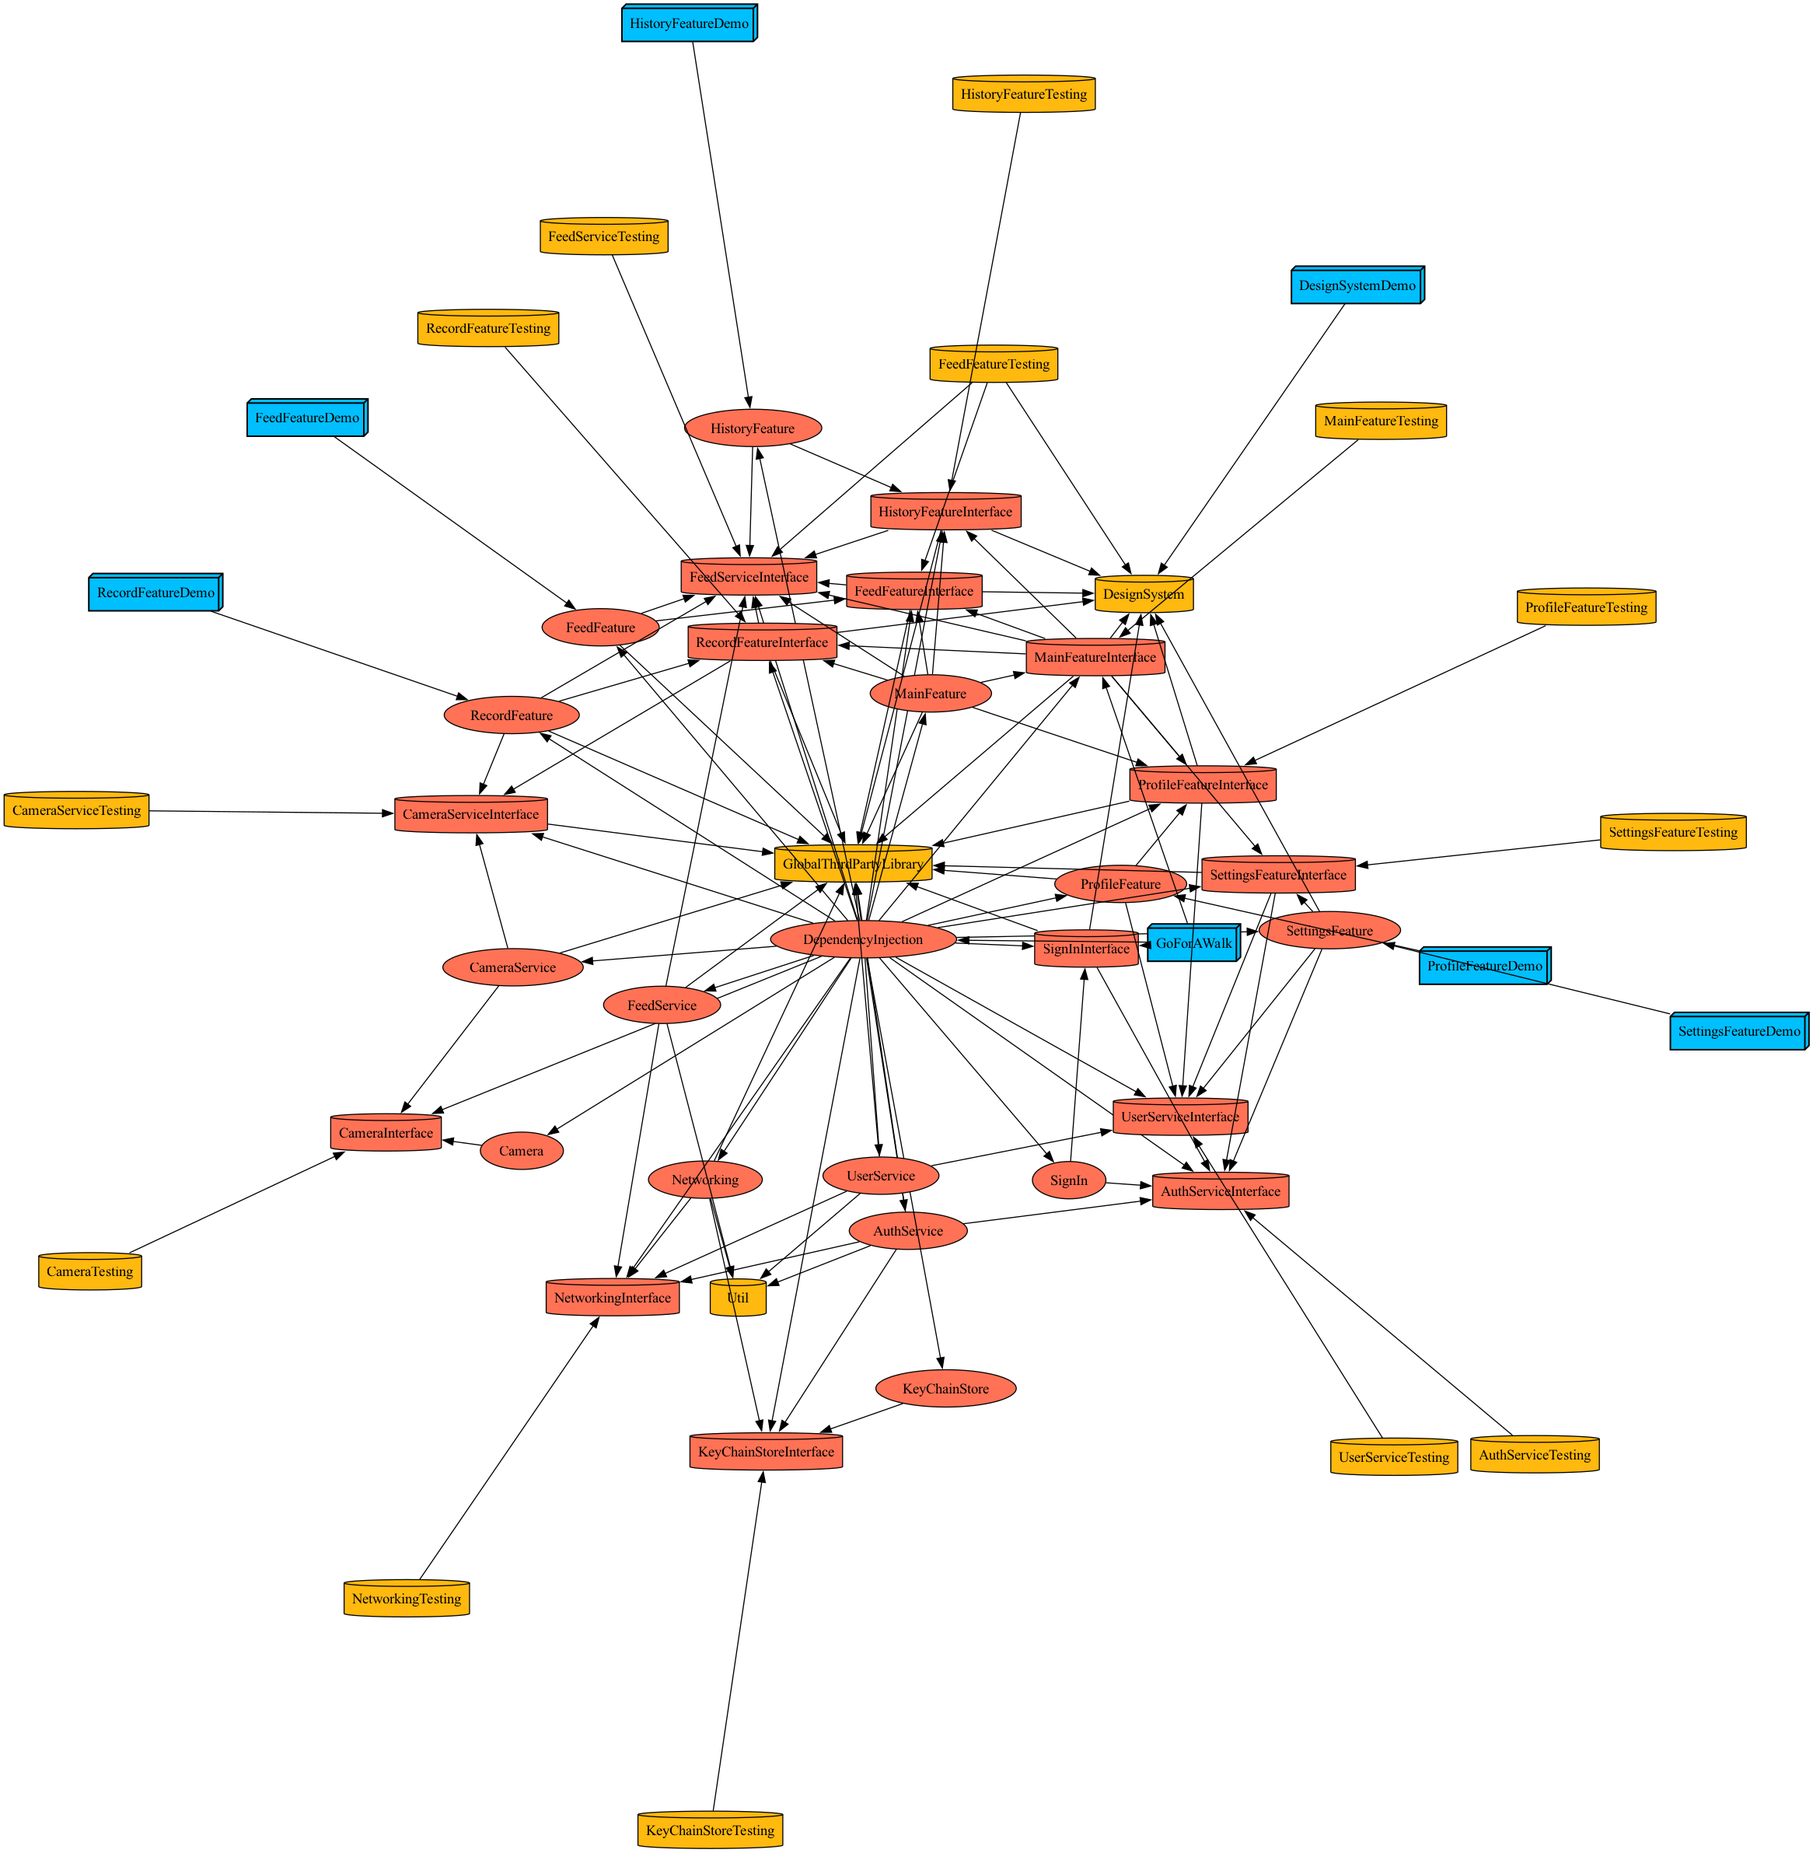
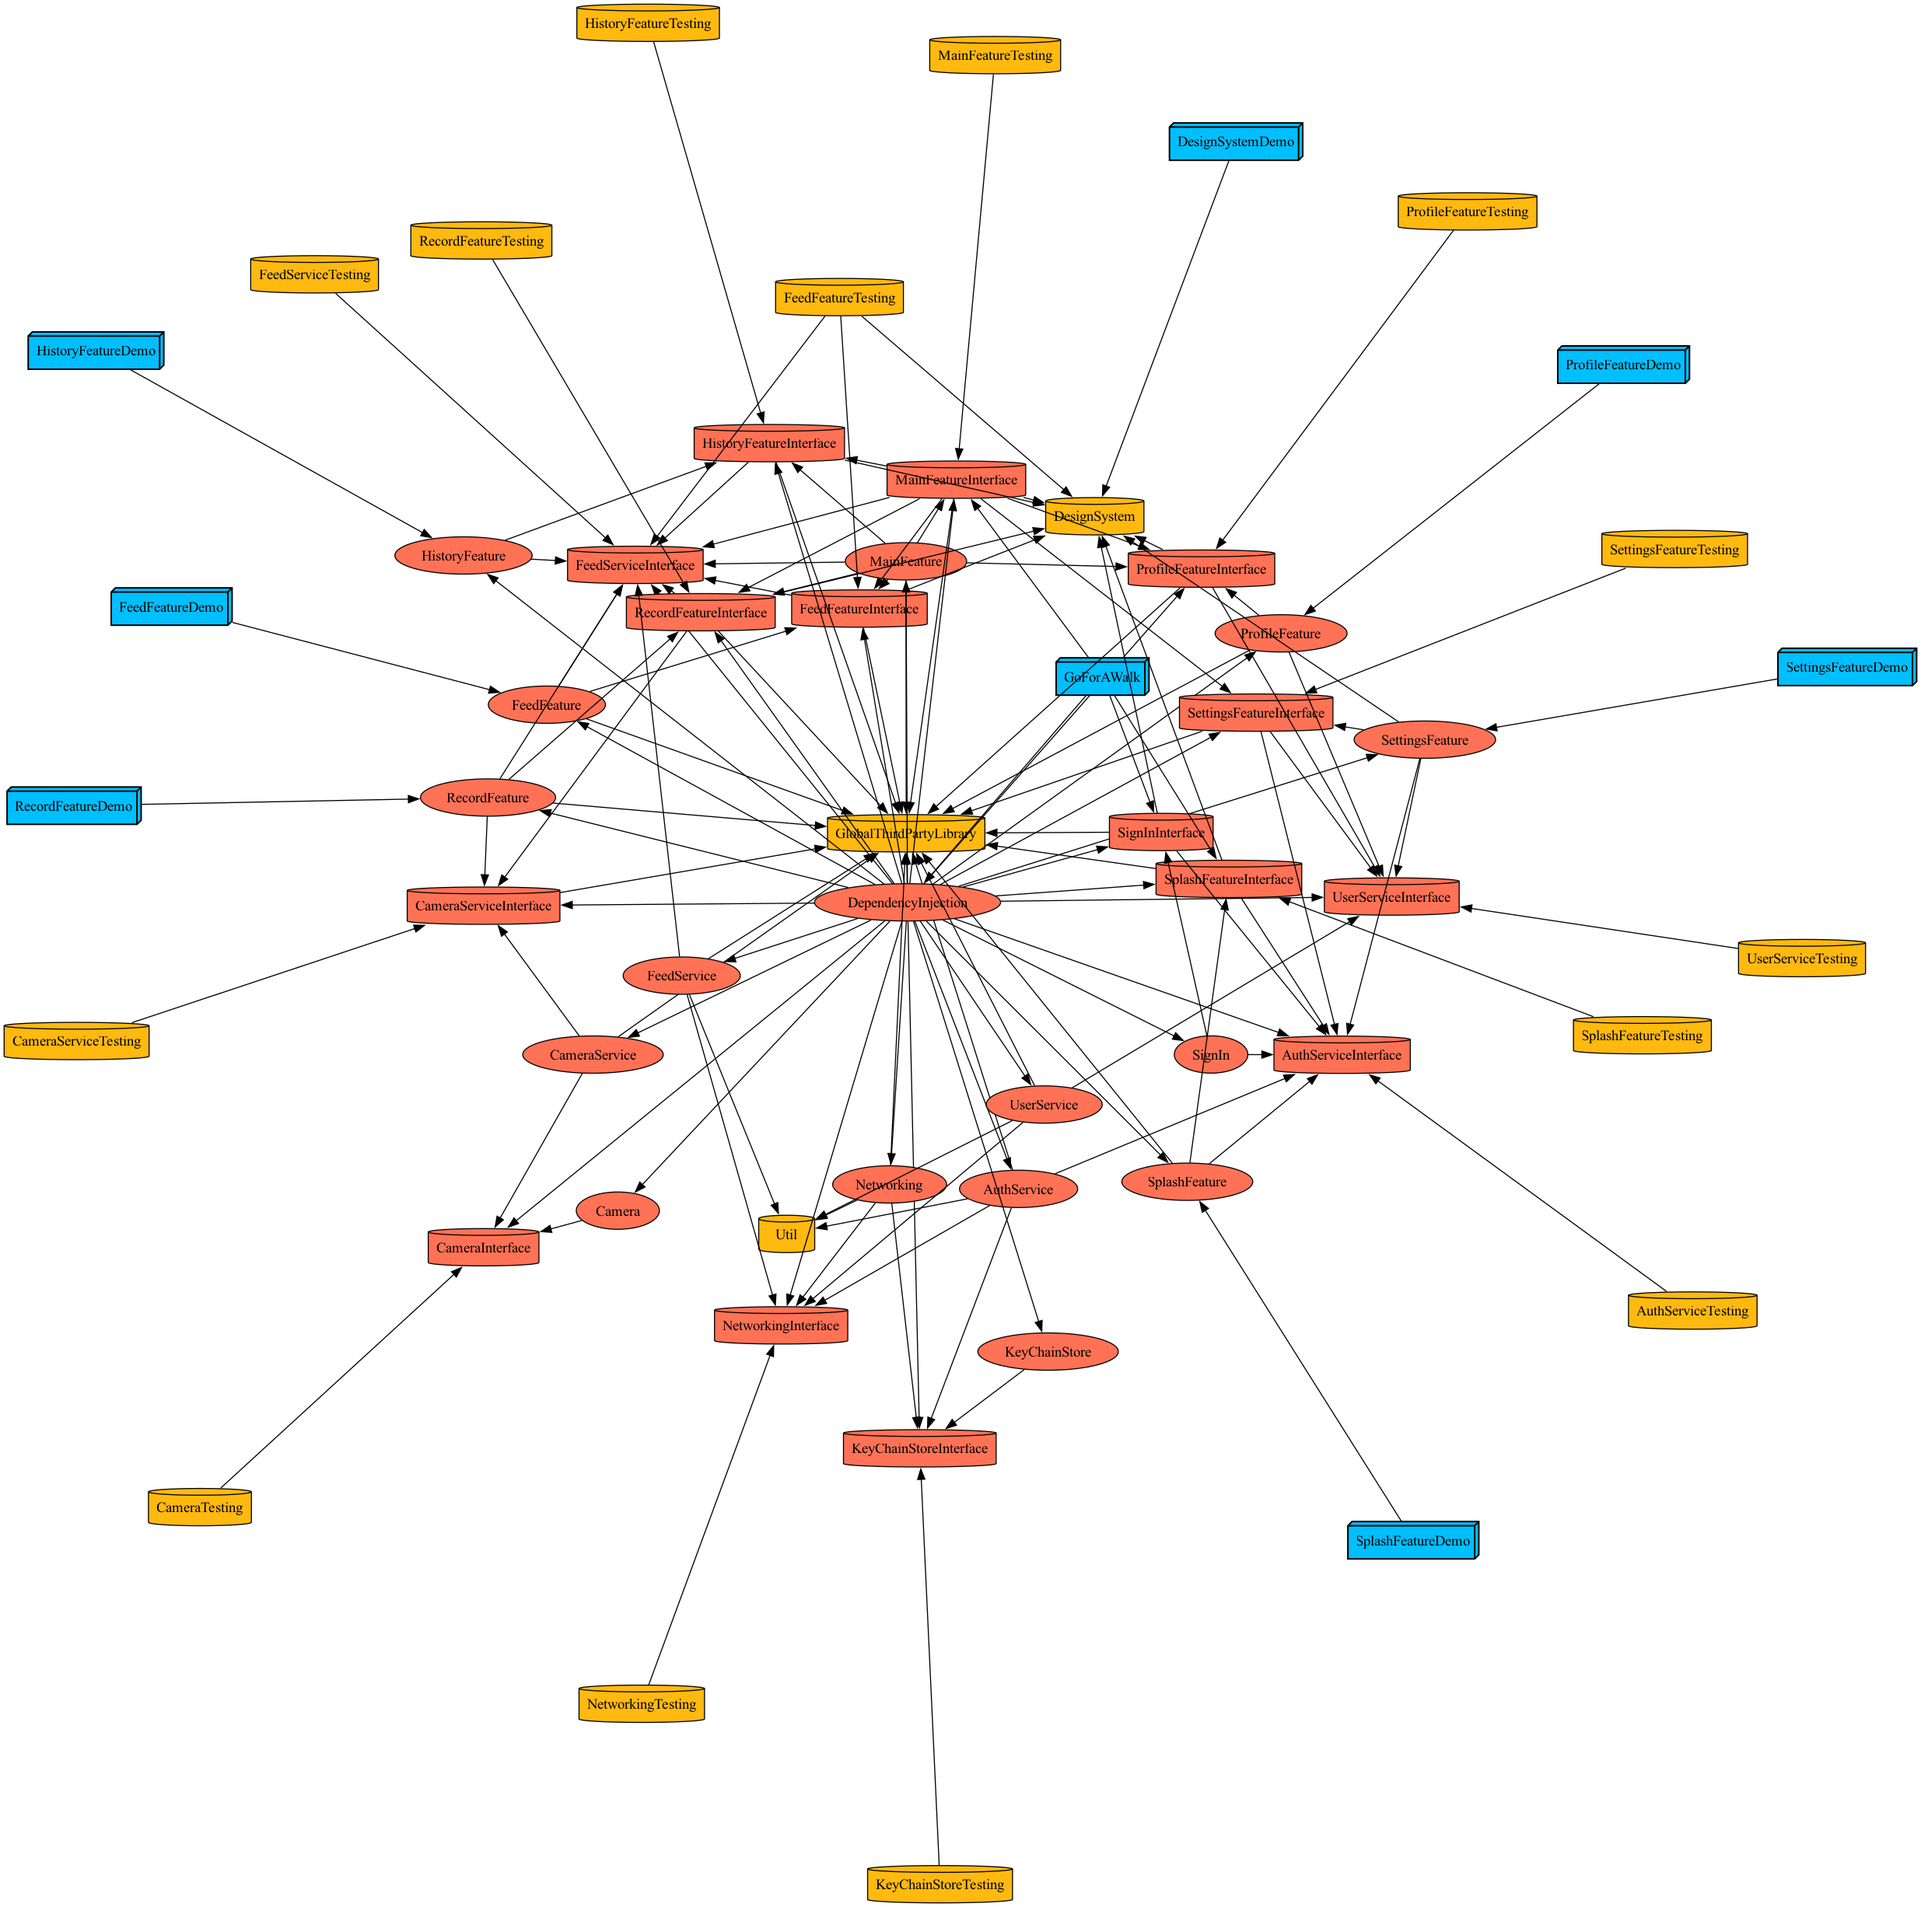
📝 :: GW-44 (iOS) 프로젝트 UML 작성

diff --git a/README.md b/README.md
@@ -1,70 +1,208 @@
- # 👟 걷는
+# 걷는
 
 산책과 운동을 즐기는 사람들을 위한 iOS 앱입니다.
 
-## 🏗 아키텍처
+## 아키텍처
 
 이 프로젝트는 **Tuist**를 활용한 모듈화 아키텍처와 **SwiftUI + TCA(The Composable Architecture)**를 기반으로 개발되었습니다.
 
 ### 모듈 구조
 
 ```
-📦 GoForAWalk
-├── 🔄 Shared
-│   └── Extension
-├── ⚙ Core  
-│   ├── Network
-│   └── KeychainStore
-├── 🎯 Domain
-│   ├── AuthService
-│   ├── FeedService
-│   └── UserService
-└── 🎨 Feature
-    ├── SignInFeature
-    ├── FeedFeature
-    └── ProfileFeature
+GoForAWalk
+├── App
+│   └── GoForAWalk (메인 앱)
+├── Feature
+│   ├── SplashFeature (스플래시)
+│   ├── SignIn (로그인)
+│   ├── MainFeature (메인 탭)
+│   ├── FeedFeature (피드)
+│   ├── HistoryFeature (히스토리)
+│   ├── ProfileFeature (프로필)
+│   ├── RecordFeature (기록)
+│   └── SettingsFeature (설정)
+├── Domain
+│   ├── AuthService (인증)
+│   ├── CameraService (카메라)
+│   ├── FeedService (피드)
+│   └── UserService (사용자)
+├── Core
+│   ├── Networking (네트워크)
+│   ├── KeyChainStore (키체인)
+│   └── Camera (카메라)
+├── UserInterface
+│   └── DesignSystem (디자인 시스템)
+└── Shared
+    ├── DependencyInjection (의존성 주입)
+    ├── GlobalThirdPartyLibrary (외부 라이브러리)
+    └── Util (유틸리티)
+```
+
+### 모듈 의존성 다이어그램
+
+```mermaid
+graph TB
+    subgraph App
+        A[GoForAWalk]
+    end
+
+    subgraph Feature
+        F1[SplashFeature]
+        F2[SignIn]
+        F3[MainFeature]
+        F4[FeedFeature]
+        F5[HistoryFeature]
+        F6[ProfileFeature]
+        F7[RecordFeature]
+        F8[SettingsFeature]
+    end
+
+    subgraph Domain
+        D1[AuthService]
+        D2[CameraService]
+        D3[FeedService]
+        D4[UserService]
+    end
+
+    subgraph Core
+        C1[Networking]
+        C2[KeyChainStore]
+        C3[Camera]
+    end
+
+    subgraph Shared
+        S1[DependencyInjection]
+        S2[GlobalThirdPartyLibrary]
+        S3[Util]
+    end
+
+    subgraph UserInterface
+        U1[DesignSystem]
+    end
+
+    %% App Dependencies
+    A --> S1
+    A --> F1
+    A --> F2
+    A --> F3
+
+    %% Feature Dependencies
+    F1 --> D1
+    F2 --> D1
+    F3 --> F4
+    F3 --> F5
+    F3 --> F6
+    F3 --> F7
+    F3 --> F8
+    F3 --> D3
+    F4 --> D3
+    F6 --> D4
+    F7 --> D2
+    F7 --> D3
+
+    %% Domain Dependencies
+    D1 --> C1
+    D1 --> C2
+    D2 --> C3
+    D3 --> C1
+    D4 --> C1
+
+    %% Core Dependencies
+    C1 --> C2
+
+    %% Shared Dependencies
+    Feature --> U1
+    Feature --> S2
+    Domain --> S2
+    Domain --> S3
+    Core --> S2
+    Core --> S3
+```
+
+### 레이어 의존성 규칙
+
+```mermaid
+graph LR
+    subgraph Layers
+        A[App] --> B[Feature]
+        B --> C[Domain]
+        C --> D[Core]
+        B --> E[UserInterface]
+        C --> F[Shared]
+        D --> F
+    end
+
+    style A fill:#e1f5fe
+    style B fill:#fff3e0
+    style C fill:#f3e5f5
+    style D fill:#e8f5e9
+    style E fill:#fce4ec
+    style F fill:#f5f5f5
 ```
 
 ### 레이어 설명
 
-#### 🔄 Shared
-모든 레이어에서 공용으로 재사용되는 모듈들이 위치합니다.
-- **Extension**: 공통 확장 기능
+| 레이어 | 설명 | 모듈 |
+|--------|------|------|
+| **App** | 앱 진입점, 의존성 조립 | GoForAWalk |
+| **Feature** | 사용자 인터페이스, TCA Reducer | Splash, SignIn, Main, Feed, History, Profile, Record, Settings |
+| **Domain** | 비즈니스 로직, 서비스 | Auth, Camera, Feed, User |
+| **Core** | 순수 기능성 모듈 | Networking, KeyChain, Camera |
+| **UserInterface** | 공통 UI 컴포넌트 | DesignSystem |
+| **Shared** | 공용 유틸리티 | DependencyInjection, GlobalThirdPartyLibrary, Util |
 
-#### ⚙ Core
-앱의 비즈니스 로직을 포함하지 않는 순수 기능성 모듈들이 위치합니다.
-- **Network**: 네트워킹 관련 기능
-- **KeychainStore**: 키체인 저장소 관리
+### TCA Feature 모듈 구조
 
-#### 🎯 Domain
-도메인 로직이 진행되는 레이어로, 비즈니스 서비스들이 위치합니다.
-- **AuthService**: 인증 관련 비즈니스 로직
-- **FeedService**: 피드 관련 비즈니스 로직
-- **UserService**: 사용자 관련 비즈니스 로직
+각 Feature 모듈은 Interface/Sources 분리 패턴을 따릅니다:
 
-#### 🎨 Feature
-사용자의 액션을 처리하고 데이터를 보여주는, 사용자와 직접 맞닿는 레이어입니다.
-- **SignInFeature**: 로그인 화면 및 기능
-- **FeedFeature**: 피드 화면 및 기능
-- **ProfileFeature**: 프로필 화면 및 기능
+```
+Feature/[Name]/
+├── Interface/
+│   ├── [Name].swift          # Reducer 프로토콜/인터페이스
+│   └── [Name]View.swift      # SwiftUI View
+├── Sources/
+│   └── [Name].swift          # Live 구현체
+├── Testing/
+│   └── [Name]+Testing.swift  # 테스트용 Mock
+└── Tests/
+    └── [Name]Tests.swift     # 단위 테스트
+```
 
-## 🛠 기술 스택
+## 기술 스택
 
-- **Language**: Swift
-- **UI Framework**: SwiftUI
-- **Architecture**: TCA (The Composable Architecture)
-- **Modularization**: Tuist
-- **Dependency Management**: Tuist
+| 분류 | 기술 |
+|------|------|
+| **Language** | Swift 6 |
+| **UI Framework** | SwiftUI |
+| **Architecture** | TCA (The Composable Architecture) |
+| **Modularization** | Tuist |
+| **Networking** | Alamofire |
+| **Authentication** | Kakao SDK, Sign in with Apple |
+| **Analytics** | Firebase Analytics |
+| **Crash Reporting** | Firebase Crashlytics |
 
-## 🚀 시작하기
+## 시작하기
 
 ### 요구사항
 
 - **Xcode**: 16.0+
 - **iOS**: 18.0+
-- **Tuist**: 설치 필요
+- **Tuist**: 4.x
 
-## 📋 사용 가능한 명령어
+### 설치 및 실행
+
+```bash
+# 1. Tuist 설치 (mise 사용)
+mise install tuist
+
+# 2. 의존성 설치 및 프로젝트 생성
+make generate
+
+# 3. Xcode에서 열기
+open GoForAWalk.xcworkspace
+```
+
+## 사용 가능한 명령어
 
 ### 기본 명령어
 
@@ -90,25 +228,40 @@
 | `make ci_generate` | CI용 프로젝트 generate (SwiftLint 제외) |
 | `make cd_generate` | CD용 프로젝트 generate (SwiftLint 제외) |
 
-## 📝 개발 가이드라인
+## 개발 가이드라인
 
-### TCA 패턴 사용
+### TCA 패턴
 
-모든 Feature 모듈은 TCA(The Composable Architecture) 패턴을 따릅니다:
+모든 Feature 모듈은 TCA 패턴을 따릅니다:
 
-- **State**: 화면의 상태
-- **Action**: 사용자 액션 및 시스템 이벤트
-- **Reducer**: 상태 변경 로직
-- **Environment**: 외부 의존성
+```swift
+@Reducer
+public struct SomeFeature: Sendable {
+    @ObservableState
+    public struct State: Equatable { ... }
 
-### 모듈 간 의존성
+    public enum Action {
+        case viewAction
+        case delegate(Delegate)
 
-- 상위 레이어는 하위 레이어에만 의존할 수 있습니다
-- 같은 레이어 내 모듈 간 의존성은 최소화합니다
-- Core 레이어는 비즈니스 로직을 포함하지 않습니다
+        public enum Delegate { ... }
+    }
 
----
+    public var body: some ReducerOf<Self> {
+        Reduce { state, action in
+            // 상태 변경 로직
+        }
+    }
+}
+```
 
-## 📞 문의
+### 모듈 간 의존성 규칙
+
+1. **상위 → 하위만 허용**: App → Feature → Domain → Core
+2. **같은 레이어 최소화**: Feature 간 직접 의존 지양
+3. **Interface 분리**: 모듈 간 통신은 Interface를 통해
+4. **Core는 비즈니스 로직 없음**: 순수 기능성 모듈만
+
+## 문의
 
 프로젝트에 대한 질문이나 제안사항이 있으시면 Issues를 통해 연락해주세요.

diff --git a/CLAUDE.md b/CLAUDE.md
@@ -1,0 +1,81 @@
+# GoForAWalk Project Instructions
+
+## TCA Architecture Discussion
+
+This project uses The Composable Architecture (TCA) with Tuist for modular architecture.
+
+When answering questions about architecture, design patterns, or implementation decisions, always reference and follow the panel discussion format defined in:
+
+@.claude/tca_prompt.txt
+
+This prompt simulates a panel discussion between:
+- **Brandon** (TCA Expert): The Composable Architecture, Point-Free style, state management, reducers, effects, dependency injection
+- **Chris** (Swift Expert): Swift language, type system, compiler, ABI, performance, concurrency
+- **Pedro** (Tuist Expert): Modular architecture, Xcode project management, build systems, CI pipelines
+
+## Project Structure
+
+- **Tuist-based modular architecture**
+- **TCA for state management**
+- **Interface/Sources separation pattern** for feature modules
+- **Swift 6 with Strict Concurrency Checking**
+
+## Key Conventions
+
+### Feature Module Pattern
+```
+Projects/Feature/[FeatureName]/
+├── Interface/
+│   ├── [FeatureName].swift      # Protocol/Interface definition
+│   └── [FeatureName]View.swift  # SwiftUI View
+├── Sources/
+│   └── [FeatureName].swift      # Live implementation
+└── Project.swift
+```
+
+### TCA Reducer Pattern
+```swift
+@Reducer
+public struct SomeFeature: @unchecked Sendable {
+    @ObservableState
+    public struct State: Equatable { ... }
+
+    public enum Action {
+        case someAction
+        case delegate(Delegate)
+
+        public enum Delegate { ... }
+    }
+
+    let reduce: (inout State, Action) -> Effect<Action>
+
+    public init(reduce: @escaping (inout State, Action) -> Effect<Action>) {
+        self.reduce = reduce
+    }
+
+    public var body: some ReducerOf<Self> {
+        Reduce(reduce)
+    }
+}
+
+// Live implementation in Sources/
+extension SomeFeature {
+    static func live(client: SomeClient) -> Self {
+        Self { state, action in
+            // Implementation
+        }
+    }
+}
+```
+
+### Dependency Injection
+- All features are registered in `DependencyInjection` module
+- Use `@Dependency` for injecting clients and child features
+- Follow the `DependencyKey` pattern for registration
+
+## Swift 6 Concurrency
+
+- Use `@unchecked Sendable` for TCA Features (they manage their own thread safety)
+- Use `nonisolated(unsafe)` for static properties with non-Sendable types
+- Use `SendableWrapper` pattern for capturing closures in Tasks
+- Wrap UI operations in `MainActor.run { }` when needed
